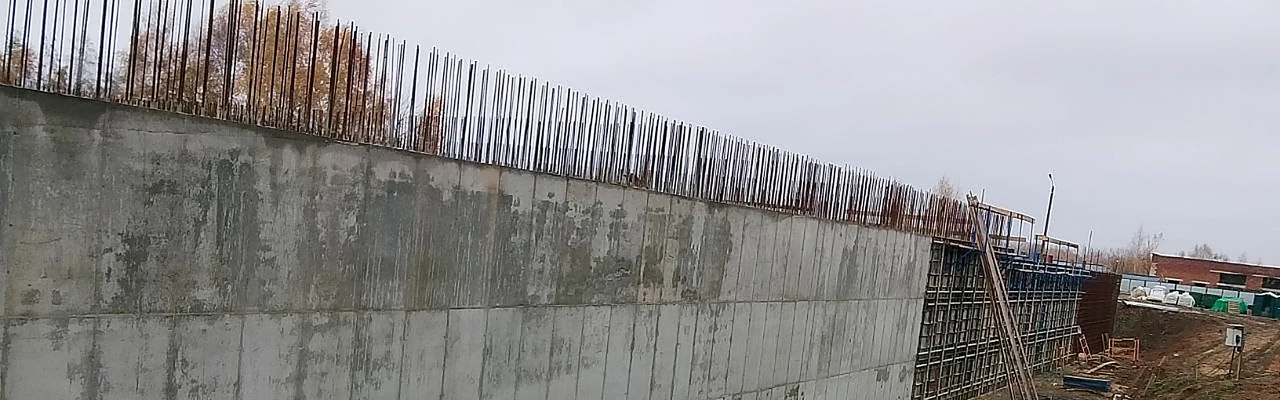
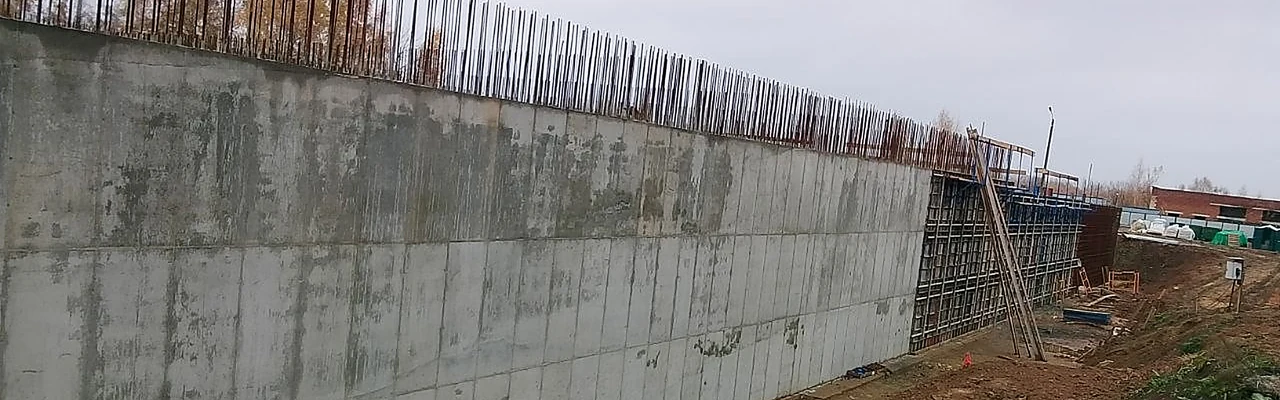
Киреевск: в описании убраны объёмы, заглавный кадр смещён на стену
- второй абзац описания — без цифр: какие конструкции и как изолированы
- заглавный кадр: полоса начинается от верхней кромки стены (bias 0.42),
  в кадре стена, а не небо с арматурой

diff --git a/src/content/projects.ts b/src/content/projects.ts
@@ -86,7 +86,7 @@ export const PROJECTS: Project[] = [
     subtitle: "Монолитные конструкции и гидроизоляция ёмкостных сооружений",
     about: [
       "Очистные сооружения бытовых сточных вод в Киреевске реконструируются. В составе объекта: усреднитель, отдельно стоящие фундаменты под технологические ёмкости, здание АБК, сливная станция, пожарные резервуары и канализационная насосная станция. Группа компаний ИТЭС выполняет монолитные работы и гидроизоляцию.",
-      "Объём монолита – около 2000 м³ бетона. Гидроизоляция выполнена двумя способами: обмазочными составами на 7700 м² и оклеечной в два слоя. Деформационные швы ёмкостных сооружений заполнены бентонитовым шнуром.",
+      "Монолитные работы – плиты днища, стены и перекрытие усреднителя, отдельно стоящие фундаменты и монолитная стенка. Гидроизоляция сделана двумя способами: обмазочными составами и оклеечной в два слоя. Деформационные швы ёмкостных сооружений заполнены бентонитовым шнуром.",
     ],
     facts: [
       { label: "Заказчик", value: "ООО «СТРОЙНЕФТЬ»" },
